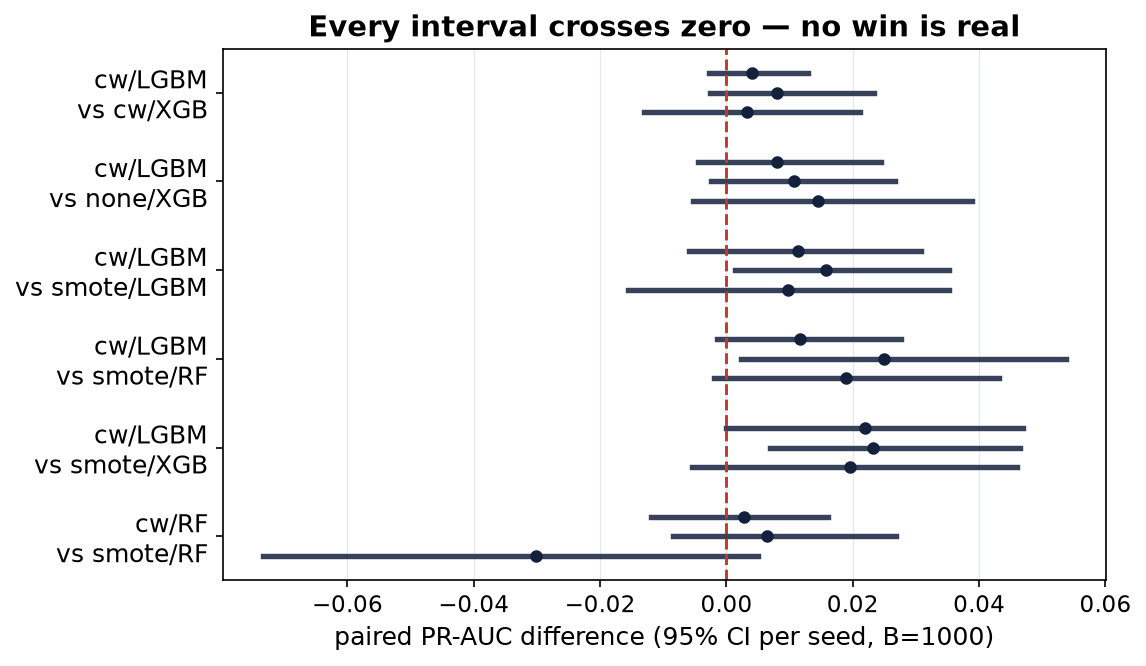
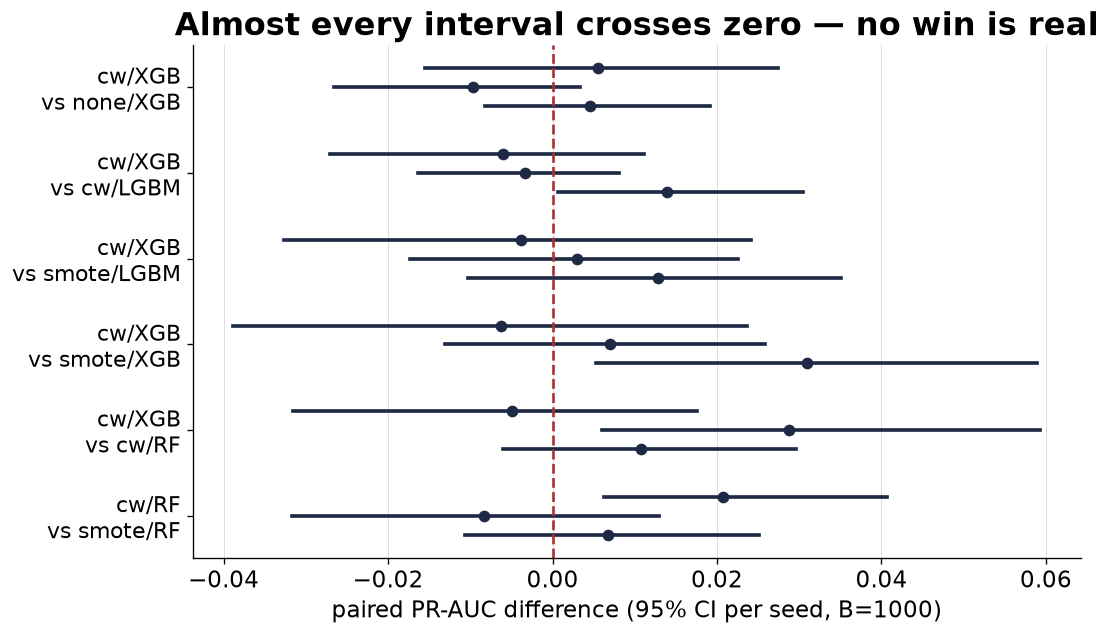
fix dedup to model-visible feature space; align seeds, suite, and docs
- remove_duplicates now drops the 9,144 duplicates in the model-visible
  space (V1-28 + Amount) before splitting, not just the 1,081 exact rows;
  integrity_report prints both counts
- run_policy_ladder and run_leakage_forensics default to all five seeds;
  the policy ladder also saves the LogReg reliability diagram (the model
  behind the calibration headline)
- make suite now includes E5's confirmatory bootstrap (pinned pair,
  held-back seeds 3-4)
- README: credit the full team with a contributions table, document the
  per-experiment seed protocol and the confirm command, note the
  feature-space dedup; notebook: drop the stale PROJECT_PLAN.md
  reference and update the dedup wording
- restore reports/presentation_script.md, rebuilt from the final deck's
  speaker notes
- regenerate bootstrap_forest_slide.png from the corrected results

diff --git a/experiments/run_policy_ladder.py b/experiments/run_policy_ladder.py
@@ -29,7 +29,7 @@ tuned. sanity check: the tuned row should be near identical across variants
 since the calibration maps are monotone.
 
 run from the repo root:
-    python -m experiments.run_policy_ladder            # ~5-8 min
+    python -m experiments.run_policy_ladder            # 5 seeds, ~10-15 min
     python -m experiments.run_policy_ladder --quick    # smoke test
 """
 from __future__ import annotations
@@ -145,8 +145,7 @@ def run_ladder(df, seed, strategies, model_filter):
 
 def main():
     ap = argparse.ArgumentParser()
-    ap.add_argument("--seeds", type=int, nargs="+",
-                    default=config.DISCOVERY_SEEDS)
+    ap.add_argument("--seeds", type=int, nargs="+", default=config.SEEDS)
     ap.add_argument("--strategies", nargs="+",
                     default=["class_weight", "smote"])
     ap.add_argument("--models", nargs="+",
@@ -209,19 +208,30 @@ def main():
                      "delta_isotonic": 4, "dollars_isotonic": 0})
           .sort_values("dollars_platt", ascending=False))
 
-    # figure + band table for the showcase combo. picked ahead of time as the
-    # strongest family from earlier validation runs, not off this runs test
-    target = ("class_weight", "random_forest")
-    if target in extras:
-        ex = extras[target]
+    # reliability figures: the showcase combo (rf, picked ahead of time as the
+    # strongest family from earlier validation runs, not off this runs test)
+    # plus logreg, whose miscalibration drives the $48k headline - the figure
+    # shown next to that discussion has to be the same model
+    for strat_t, model_t, label_t, fname in (
+            ("class_weight", "random_forest", "RF",
+             "reliability_rf_class_weight.png"),
+            ("class_weight", "logreg", "LogReg",
+             "reliability_logreg_class_weight.png")):
+        if (strat_t, model_t) not in extras:
+            continue
+        ex = extras[(strat_t, model_t)]
         fig, ax = plt.subplots(figsize=(6, 5))
         for vkey in VARIANTS:
             plots.plot_reliability(ex["yte"], ex["p_te"][vkey], ax=ax, label=vkey)
-        ax.set_title("Reliability: RF + class_weight (test, seed %d)" % seeds[0])
-        path = plots.savefig(fig, "reliability_rf_class_weight.png")
+        ax.set_title("Reliability: %s + %s (test, seed %d)"
+                     % (label_t, strat_t, seeds[0]))
+        path = plots.savefig(fig, fname)
         plt.close(fig)
         print(f"\nSaved reliability diagram -> {path}")
 
+    target = ("class_weight", "random_forest")
+    if target in extras:
+        ex = extras[target]
         print("\n=== Where the money lives: tuned/raw vs bayes/platt "
               "(RF + class_weight, seed %d) ===" % seeds[0])
         r = raw[(raw.strategy == target[0]) & (raw.model == target[1])

diff --git a/src/data.py b/src/data.py
@@ -32,16 +32,27 @@ def integrity_report(df: pd.DataFrame) -> dict:
         "n_rows": n,
         "n_fraud": pos,
         "fraud_rate": pos / n,
-        "n_duplicate_rows": int(df.duplicated().sum()),
+        "n_exact_duplicate_rows": int(df.duplicated().sum()),
+        "n_feature_space_duplicates": int(
+            df.duplicated(subset=config.FEATURES).sum()),
         "n_features": len(config.FEATURES),
     }
 
 
 def remove_duplicates(df: pd.DataFrame) -> pd.DataFrame:
-    """drop exact duplicate rows before splitting, otherwise identical
-    transactions can end up on both sides of the split"""
+    """drop rows that are duplicates in the feature space the model actually
+    sees (v1-28 + amount, time excluded), before splitting. exact-row dedup
+    only catches ~1,081 of them; ~9,144 rows are model-identical copies that
+    could otherwise straddle the train/test boundary"""
     before = len(df)
-    out = df.drop_duplicates().reset_index(drop=True)
+    # guard: dropping on features alone would silently merge rows that agree
+    # on features but disagree on the label. the ulb data has none, but if
+    # that ever changes the dedup key must include the label again
+    key_with_label = config.FEATURES + [config.TARGET]
+    assert (df.duplicated(subset=config.FEATURES).sum()
+            == df.duplicated(subset=key_with_label).sum()), \
+        "feature-duplicate rows with conflicting labels - rethink the dedup key"
+    out = df.drop_duplicates(subset=config.FEATURES).reset_index(drop=True)
     out.attrs["n_dropped_duplicates"] = before - len(out)
     return out
 

diff --git a/experiments/run_leakage_forensics.py b/experiments/run_leakage_forensics.py
@@ -34,7 +34,7 @@ effects are reported overall and also inside each smote stratum, since the
 smote-on cells sit near the metric ceiling and squash the other effects.
 
 run from the repo root:
-    python -m experiments.run_leakage_forensics            # ~15-25 min
+    python -m experiments.run_leakage_forensics            # 5 seeds, ~25-45 min
     python -m experiments.run_leakage_forensics --quick    # smoke test
 """
 from __future__ import annotations
@@ -176,8 +176,7 @@ def main_effects(raw, metric, sins=SINS):
 
 def main():
     ap = argparse.ArgumentParser()
-    ap.add_argument("--seeds", type=int, nargs="+",
-                    default=config.DISCOVERY_SEEDS)
+    ap.add_argument("--seeds", type=int, nargs="+", default=config.SEEDS)
     ap.add_argument("--models", nargs="+", default=["logreg", "hist_gbm"],
                     help="fast pair by default; random_forest is much slower")
     ap.add_argument("--quick", action="store_true")

diff --git a/reports/presentation_script.md b/reports/presentation_script.md
@@ -1,0 +1,100 @@
+# Presentation Script — Fraud Detection, Measured in CAD
+
+**Deck:** `final video take presentation.pptx` (20 slides) · **Team:** Nicholas Kim, Balaji S Kumar, Vivekkumar Chaudhari
+
+Every paragraph below is the verbatim Presenter View note for that slide — the deck and this file are the same script in two places. The demo section (slides 6–8) includes the exact commands to run.
+
+## Slide 1 — Title — Fraud Detection, Measured in CAD
+
+Welcome. Our project is credit-card fraud detection on the standard ULB dataset - but our angle is honesty. Public projects on this exact dataset routinely report 99%+ scores; our forensics experiment shows how the common evaluation shortcuts produce exactly that kind of inflation. We built a version where those shortcuts cannot happen by construction, measured performance in dollars instead of abstract scores, and then ran a forensic audit that measures exactly how much each common shortcut inflates the results. The two numbers on the right are the whole story: 0.99 if you evaluate the way most notebooks do, 0.73 if you evaluate honestly. Everything is reproducible: one command per experiment.
+
+## Slide 2 — The Team
+
+On camera, each member in turn: Hi, I'm [full name], and I worked on [area]. Keep it to one line each - the detailed contribution statements come at the end of the talk. This slide satisfies the submission requirement that every member's face is shown and their name is clearly stated.
+
+## Slide 3 — The problem: a model that does nothing is 99.83% accurate
+
+The core difficulty: fraud is one transaction in 579. That breaks accuracy as a metric - a model that never flags anything is 99.83% accurate and completely useless. So we pick scoreboards that mean something at this imbalance: PR-AUC as the primary ranking metric, precision and recall at an explicit operating point, and - our addition - dollars. The rarity has a second consequence: everyone reaches for SMOTE, which synthesizes fake fraud examples. Used correctly it is fine. Used the way most tutorials use it, it silently corrupts the test set - that is the centerpiece of our forensics experiment.
+
+## Slide 4 — Leakage: how the standard workflow accidentally cheats
+
+Here is the single most important idea. The common workflow applies SMOTE to the entire dataset and then splits. Two corruptions follow: synthetic near-copies of test frauds end up in training, and the test set itself becomes half fraud instead of 0.17 percent. It is like studying with the answer key. Our pipeline makes this impossible by construction: split first, then every learning step lives inside a sealed pipeline only ever fit on training folds. The decision threshold is tuned on validation, and the test set is touched exactly once.
+
+## Slide 5 — Design: five stages, three guardrails, one verification loop
+
+This is the whole system on one slide. Data preparation loads, deduplicates and splits first. Training happens inside the sealed pipeline. Thresholds and calibration are tuned on validation only. Evaluation touches the test set exactly once and reports both PR-AUC and dollars saved. The green badges are our guardrails - train folds only, validation only, test touched once. Above it all sits the verification loop: every experiment was adversarially reviewed, fixed, and re-run before we trusted it. And the bottom loop is repetition: five seeds, four imbalance strategies, five models, so every number carries error bars. Keep this picture in mind - every experiment that follows lives somewhere on it.
+
+## Slide 6 — Live demo: the quick benchmark, end to end
+
+**Demo section.** Commands, in order:
+
+```bash
+python3 -m experiments.run_benchmark --quick
+cat -n src/pipeline.py
+ls -la results/tables/
+```
+
+What the quick run prints (narrate along):
+
+```
+Integrity: {n_rows: 284807, n_fraud: 492, fraud_rate: 0.0017, n_exact_dups: 1081, n_feature_dups: 9144}
+Dropped 9144 duplicate rows; 275663 remain.
+```
+
+This slide stays up while the screen recording plays, or the presenter switches to a live terminal. The full word-for-word script is the demo section of reports/presentation_script.md: tour the repo in one sentence, open pipeline.py and point at the sealed pipeline - the no-cheating guarantee - then run the quick benchmark and narrate while it prints: the integrity check, the duplicate removal, and finally the two tables where the leaky pipeline reports essentially perfect scores and the honest one tells the truth. Close on the results folder: every figure and table in the report regenerates from these CSVs.
+
+## Slide 7 — Demo output 1 of 2: the finished run
+
+*(no spoken notes — the slide is on screen while the demo output is walked through)*
+
+## Slide 8 — Demo output 2 of 2: the code and the receipts
+
+*(no spoken notes — the slide is on screen while the demo output is walked through)*
+
+## Slide 9 — Experiment 1: the money benchmark
+
+Instead of only abstract scores, we price everything. An alert costs 5 dollars to investigate; a missed fraud costs its own amount; savings is the fraction of do-nothing losses a policy prevents, net of fees. Three anchors: doing nothing is zero, blocking everything is minus 24.7 - clipped off this chart - and a perfect oracle tops out at 0.97, because 45 percent of frauds are worth less than the fee. Our best honest configurations - a plain XGBoost just ahead of the class-weighted random forest showcase, all within noise of each other - prevent about 70 percent of losses over five seeds, roughly 7,900 dollars per test slice of 55,000 transactions.
+
+## Slide 10 — Experiment 1: the scoreboard and the bank account disagree
+
+The punchline of the money benchmark. These two models have statistically identical ranking quality - PR-AUC 0.828 versus 0.832. But in dollars, the point estimates split 0.645 versus 0.701, with the SMOTE forest letting about 9 percent more fraud value through - it catches many frauds, but the cheap ones. Whether that money gap is real is exactly what Experiment 5 tests - spoiler: it is within noise, and that is the point. Classification metrics count frauds; they cannot see that one missed 3,000-dollar fraud outweighs a hundred missed 2-dollar frauds. And note the savings leader is a third model entirely, a plain XGBoost. Different scoreboards, different champions - which is exactly why the economic scoreboard has to be explicit.
+
+## Slide 11 — Experiment 3: calibration, priced
+
+Calibration usually shows up as an abstract chart. We price it. The decision rule - flag when probability times amount exceeds the 5-dollar fee - needs no tuning but trusts the probabilities literally. Class-weighted logistic regression outputs probabilities inflated about 40-fold. Fed raw into the rule, the policy loses about 3.4 times the total fraud value. One line of Platt scaling, fit only on validation, repairs the identical model to plus 0.69 - a 44,000-dollar swing per test slice. The table is the real finding: badly miscalibrated models gain tens of thousands, already-calibrated models gain nothing. Calibration has a price tag proportional to the disease.
+
+## Slide 12 — Experiment 4: leakage forensics — one mistake does the damage
+
+Rather than one leaky-versus-safe comparison, we made each classic mistake an independent on-off switch and ran all sixteen combinations over five seeds. Every workflow is scored twice: on its own, possibly poisoned, test split - the number a flawed notebook would publish - and on a pristine holdout carved out before any sin could touch it. The attribution is unambiguous: SMOTE-before-split alone inflates the reported PR-AUC by 0.26 - essentially the entire inflation - while the true score moves by four thousandths. The scaler leak everyone worries about: zero. Duplicates: noise. Threshold-on-test: zero on PR-AUC by mathematical construction - our built-in consistency check. And the honest workflow's reported number matches its clean-holdout truth to three thousandths: honesty verified, not assumed.
+
+## Slide 13 — Experiment 4: two separate harms, separately measured
+
+The forensics separated two distinct harms of the same mistake. Harm one is the lie: the reported score is fiction because the test set itself is poisoned. Harm two is worse: the decision threshold was tuned on data that is half fraud, so deployed at the real prevalence of one in 579 it drowns in false positives. Reported F1 0.95; deployed F1 0.07 - nearly fourteen times overstated. SMOTE-before-split does not just make you look better than you are - it makes you ship a worse product while believing it is excellent.
+
+## Slide 14 — Experiment 5: which wins are real? None survived — not even ours
+
+With only 95 frauds in the test set, how much of any ranking is luck? The paired bootstrap answers this: resample the same test rows a thousand times for all models simultaneously, so sample luck cancels and the interval lands on the difference. Result one: every pairwise PR-AUC win among our top models is statistically indistinguishable - the leaderboard is noise at this scale, and the PR-AUC leader even flips between seed sets. Result two: we pointed the same weapon at our own headline. On the discovery seeds the money gap merely looked suggestive - two of three intervals excluded zero. So we pre-registered the comparison and re-tested once on fresh seeds three and four, where both confidence intervals cross zero - the gap did not survive, and we report it as unconfirmed. Discovery, pre-register, and an honest failed confirmation - that is the protocol doing its job.
+
+## Slide 15 — Experiments 7–8: explainability + error economics (plus the E6 and E8 asides)
+
+We opened the box three ways. Globally, SHAP and permutation importance agree on the drivers - components like V10, V12 and V14 - with the honest caveat that these are anonymized components, not human causes. Locally, two case studies: the most confident false alarm was a two-dollar transaction - even a correct alert there loses money, which is why our per-transaction rule exists. And the most expensive miss, 829 dollars, scored zero point zero zero zero - the strongest fraud signals pointed the wrong way; a blind spot, not a near-miss. Economically, misses are wildly unequal: five tiny misses cost under ten dollars, eight big ones cost 2,918. Two more honest results: forward-in-time evaluation drops savings from 0.72 to 0.62, and a proper leakage-safe hyperparameter search changed nothing beyond noise - at 280 training frauds that is the expected truth, and we say so.
+
+## Slide 16 — Engineering rigor: build → attack → fix → verify
+
+A methodology slide about ourselves. Every experiment went through the same loop: build it leakage-safe, subject it to independent adversarial review, fix what is confirmed, verify the fixes, and only then run for real. This caught real flaws in our own work: our supposedly clean holdout was contaminated - the dataset contains 9,144 duplicates in the feature space the model sees, eight times the count everyone removes, itself a novel data-quality finding. A headline number was quietly cherry-picking the better calibrator on test data. One of our hypotheses was mathematically incapable of failing, so we reframed it as a consistency check. The discipline we preach in the project, we applied to the project.
+
+## Slide 17 — Submission statement: contributions, status, assumptions
+
+Each member on camera, one or two sentences: I'm [name], I was responsible for [area] - I wrote [files], ran [experiments], and contributed [report sections]. Then one member closes with the status statement: everything demonstrated is fully functional and reproducible - all eight experiments run end-to-end from a fresh clone with one command each. Nothing we presented is partially functional or mocked. Two extensions were scoped but deliberately not built - a second dataset and conformal prediction - and the report explains why. Our key assumptions: the 5-dollar-per-alert fee, dollar figures relabeling the native European amounts one-to-one, and post-hoc comparisons labeled exploratory - including our one pre-registered money gap, which failed its fresh-seed confirmation and is reported as unconfirmed. And the biggest lesson learned: evaluation is harder than modeling - one misplaced preprocessing step inflated scores by 25 points, and finding that required auditing our own work as aggressively as everyone else's.
+
+## Slide 18 — Future work (report §9)
+
+Five directions, all following from limitations we measured rather than wishes: real features for real interpretability and fairness, longer data for real drift, real cost calibration, conformal prediction once there is enough data for its guarantees to mean something, and the systems extensions - banded thresholds and production monitoring. Each one is scoped in section 9 of the report.
+
+## Slide 19 — What we'd like you to remember
+
+To close: four numbers carry the whole project. 0.99 versus 0.73 - the leaky score and the honest one, and we itemized which mistake causes the gap. 44,000 dollars - the measured value of honest probabilities under a decision rule that spends money. Thirteen-point-eight times - the same mistake ships a non-generalizing operating point, not just an inflated number. And 95 frauds - the reason every claim needs an interval, including our own money headline, which failed its fresh-seed confirmation - and we say so. Everything is one command to reproduce. We own the limitations explicitly. Thank you - questions welcome.
+
+## Slide 20 — References
+
+Nothing to read aloud - leave on screen briefly. The acknowledgement line matches the course AI-use policy; edit or remove it if the team decides otherwise.

diff --git a/README.md b/README.md
@@ -1,5 +1,8 @@
 # Leakage-Safe Credit Card Fraud Detection
 
+**Team:** Nicholas Kim · Balaji S Kumar · Vivekkumar Chaudhari
+(EECS 3404 Applied Machine Learning, York University, Summer 2026)
+
 Ensemble learning, probability calibration, and explainable diagnostics on the
 ULB credit-card fraud dataset — with a deliberate focus on **doing the
 evaluation honestly**. The project's spine is a controlled comparison between a
@@ -34,13 +37,17 @@ python -m experiments.run_benchmark --quick   # or: make quick
 make suite
 
 #    ...or run the experiments individually (each saves CSVs to results/tables/)
-python -m experiments.run_benchmark            # E1/E2 leaky-vs-safe, in dollars
-python -m experiments.run_policy_ladder        # E3 decision policies x calibration
-python -m experiments.run_leakage_forensics   # E4 sin-by-sin 2^4 ablation
-python -m experiments.run_bootstrap           # E5 which wins are real (needs E1)
-python -m experiments.run_benchmark --split temporal   # E6 out-of-time check
-python -m experiments.run_explain             # E7 SHAP + error economics
-python -m experiments.run_tuning              # E8 leakage-safe hyperparameter search
+python -m experiments.run_benchmark            # E1/E2 leaky-vs-safe, in dollars (5 seeds)
+python -m experiments.run_policy_ladder        # E3 decision policies x calibration (5 seeds)
+python -m experiments.run_leakage_forensics   # E4 sin-by-sin 2^4 ablation (5 seeds)
+python -m experiments.run_bootstrap           # E5 discovery: which wins are real (seeds 0-2, needs E1)
+python -m experiments.run_bootstrap --seeds 3 4 --tag confirm \
+    --pairs class_weight__random_forest:smote__random_forest
+                                              # E5 confirmation: pre-registered money-gap
+                                              # pair re-tested on held-back seeds 3-4
+python -m experiments.run_benchmark --split temporal   # E6 out-of-time check (5 seeds)
+python -m experiments.run_explain             # E7 SHAP + error economics (showcase, seed 0)
+python -m experiments.run_tuning              # E8 leakage-safe hyperparameter search (seed 0)
 python -m experiments.run_fee_sensitivity     # extra: savings under $1-$20 alert fees
 ```
 
@@ -65,9 +72,10 @@ experiments/
   run_benchmark.py           E1/E2: leaky-vs-safe + money benchmark (+ --split temporal = E6)
   run_policy_ladder.py       E3: naive/tuned/bayes policies x raw/Platt/isotonic
   run_leakage_forensics.py   E4: 2^4 sin ablation with clean-holdout dual evaluation
-  run_bootstrap.py           E5: paired-bootstrap "which wins are real"
+  run_bootstrap.py           E5: paired-bootstrap "which wins are real" (discovery + confirm)
   run_explain.py             E7: SHAP + permutation importance + error economics
   run_tuning.py              E8: leakage-safe RandomizedSearchCV
+  run_fee_sensitivity.py     extra: deployed-policy savings under $1-$20 alert fees
 notebooks/
   01_eda.ipynb      exploratory data analysis (start here after download)
 data/  results/  reports/   (git-ignored content)
@@ -79,3 +87,20 @@ ULB / Worldline credit-card transactions: 284,807 transactions, 492 frauds
 (**0.172%**). Features are `Time`, `V1..V28` (PCA-anonymised), `Amount`,
 `Class`. Collected over two days. Not redistributed here — download via the
 script above.
+
+Before splitting, the pipeline deduplicates on the **model-visible feature
+space** (`V1..V28` + `Amount`): the data has 9,144 such duplicate rows —
+roughly eight times the 1,081 exact-row duplicates that ordinary
+`drop_duplicates()` removes — and any copy straddling the train/test boundary
+is leakage. 275,663 transactions (473 frauds) remain.
+
+## Team and contributions
+
+| Member | Contributions |
+|---|---|
+| **Nicholas Kim** | Designed and wrote the core codebase: the leakage-safe pipeline (`src/`), the money/savings metrics, and the eight experiment scripts (E1–E8); ran the experiments across all seeds, debugged, and verified the results. |
+| **Balaji S Kumar** | Sourced the ULB dataset; exploratory data analysis and the data-integrity audit; preprocessing decisions and the stratified + temporal train/validation/test splits used by every experiment. |
+| **Vivekkumar Chaudhari** | Environment and dependency management (pinned requirements, Makefile targets), cross-platform build fixes, repository hygiene; independent reproducibility verification from a fresh clone. |
+
+All members took part in the adversarial review loop described in the report
+(§6): build → review → fix → verify.
